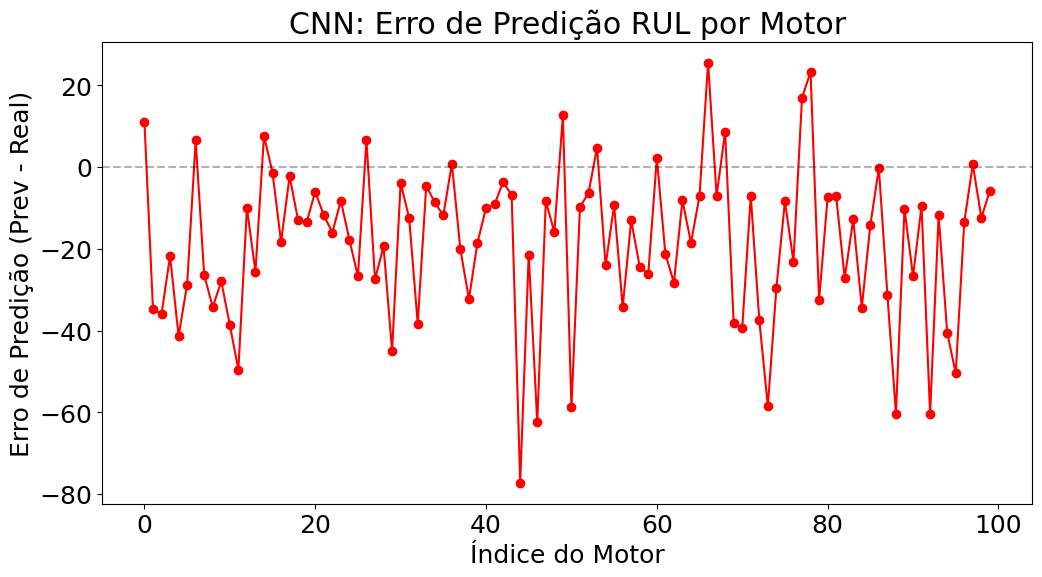
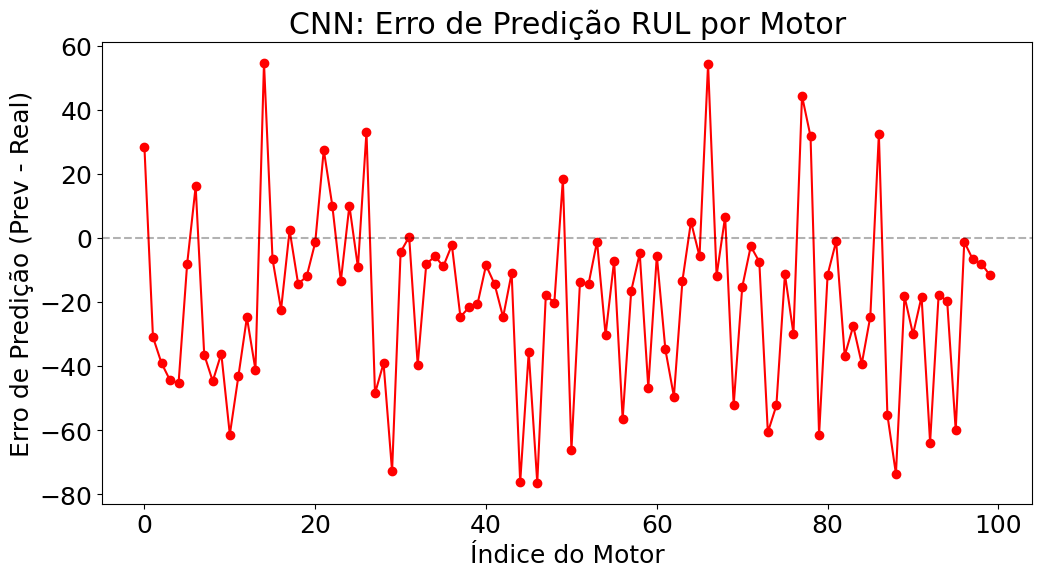
criado CNNV2, com diversas mudancas de fine tuning e bug arrumado

diff --git a/src/CNN/CNNModel.py b/src/CNN/CNNModel.py
@@ -1,104 +1,176 @@
+import os
+import numpy as np
 import tensorflow as tf
 from keras import layers, models, regularizers, callbacks
-import numpy as np
-import os
 
-def load_cmaps_data(file_path, window_size=40, rul_clip=125):
+
+def _get_scaler_paths():
+    base_dir = os.path.join(os.path.dirname(__file__), "../../data")
+    return os.path.join(base_dir, "mu.npy"), os.path.join(base_dir, "sigma.npy")
+
+
+def load_cmaps_data(file_path, window_size=120, rul_clip=200, min_sequence_length=40):
+    """
+    Load CMAPSS data with optional filtering of very short sequences.
+    
+    Args:
+        file_path: Path to data file
+        window_size: Sequence window length
+        rul_clip: Maximum RUL value (clipping applied)
+        min_sequence_length: Skip sequences shorter than this (avoids excessive padding)
+    """
     data = np.loadtxt(file_path)
 
-    # Columns
     unit_ids = data[:, 0].astype(int)
     cycles = data[:, 1].astype(int)
     settings = data[:, 2:5]
     sensors = data[:, 5:]
 
-    # ---- Remove useless sensors (standard CMAPSS practice)
-    useful_idx = [1,2,3,6,7,8,10,11,12,13,14,16,19,20]  # 0-based from sensors
+    useful_idx = [1, 2, 3, 6, 7, 8, 10, 11, 12, 13, 14, 16, 19, 20]
     sensors = sensors[:, useful_idx]
-
-    # Combine settings + sensors
     features = np.hstack([settings, sensors])
 
-    # ---- Normalize per sensor (using whole dataset here; ideally only train)
-    mu = features.mean(axis=0)
-    sigma = features.std(axis=0) + 1e-8
+    mu_path, sigma_path = _get_scaler_paths()
+    if not os.path.exists(mu_path) or not os.path.exists(sigma_path):
+        raise FileNotFoundError(
+            f"Scaler files not found. Expected mu.npy and sigma.npy in {os.path.dirname(mu_path)}"
+        )
+
+    mu = np.load(mu_path)
+    sigma = np.load(sigma_path)
     features = (features - mu) / sigma
-    np.save(os.path.join(os.path.dirname(__file__), "../../data/mu.npy"), mu)
-    np.save(os.path.join(os.path.dirname(__file__), "../../data/sigma.npy"), sigma)
 
-    # ---- Build sequences
     X, Y, unit_ids_windowed = [], [], []
-
     unique_units = np.unique(unit_ids)
 
     for unit in unique_units:
         idx = unit_ids == unit
-
         unit_feat = features[idx]
         unit_cycles = cycles[idx]
 
         max_cycle = unit_cycles.max()
         rul = max_cycle - unit_cycles
-
-        # clip RUL
         rul = np.clip(rul, 0, rul_clip)
+        rul = np.log(rul + 1)
 
-        # sliding window
+        if __name__ == "__main__":
+            if len(unit_feat) < min_sequence_length:
+                continue  # Skip this engine entirely
+        
         if len(unit_feat) < window_size:
-            # pad with first value (common practice for short sequences)
             pad = np.repeat(unit_feat[0:1], window_size - len(unit_feat), axis=0)
             window = np.vstack([pad, unit_feat])
-
             X.append(window)
             Y.append(rul[-1])
             unit_ids_windowed.append(unit)
         else:
             for i in range(len(unit_feat) - window_size + 1):
-                X.append(unit_feat[i:i+window_size])
-                Y.append(rul[i+window_size-1])
+                X.append(unit_feat[i:i + window_size])
+                Y.append(rul[i + window_size - 1])
                 unit_ids_windowed.append(unit)
 
-    X = np.array(X)
-    Y = np.array(Y)
-    unit_ids_windowed = np.array(unit_ids_windowed)
+    return np.array(X), np.array(Y), np.array(unit_ids_windowed)
 
-    return X, Y, unit_ids_windowed
 
-# Carrega e prepara dados
-X_train, Y_train, _ = load_cmaps_data(os.path.join(os.path.dirname(__file__), '../../data/train_FD001.txt'))
-
-if __name__ == "__main__":
-
-    # Modelo CNN com window_size=40
-    l2_strength = 1e-3
-    model = models.Sequential([
-        layers.Input(shape=(X_train.shape[1], X_train.shape[2])),  # (40, 17)
+def build_cnn_model(input_shape, l2_strength=1e-3):
+    return models.Sequential([
+        layers.Input(shape=input_shape),
         layers.Conv1D(64, 3, padding='same', kernel_regularizer=regularizers.l2(l2_strength)),
         layers.BatchNormalization(),
         layers.ReLU(),
         layers.MaxPool1D(2),
-
         layers.Conv1D(128, 3, padding='same', kernel_regularizer=regularizers.l2(l2_strength)),
         layers.BatchNormalization(),
         layers.ReLU(),
         layers.MaxPool1D(2),
-
         layers.Flatten(),
         layers.Dense(64, activation='relu', kernel_regularizer=regularizers.l2(l2_strength)),
-        layers.Dense(1)
+        layers.Dense(1)  # No activation - unbounded predictions in log-space
     ])
 
-    model.compile(optimizer='adam', loss='mse', metrics=['mae'])
 
-    # Treina o modelo
-    history = model.fit(
-        X_train, Y_train,
-        epochs=50,
-        batch_size=64,
-        validation_split=0.2,
+def compute_sample_weights(Y_train, high_rul_scale=1.0):
+    """
+    Compute sample weights based on RUL values.
+    Higher RULs get higher weights by the formula: 1 + high_rul_scale * (RUL / max(RUL))
+    
+    Args:
+        Y_train: Array of RUL values (log-transformed)
+        high_rul_scale: Scaling factor for high RUL weight emphasis (default=1.0)
+    
+    Returns:
+        sample_weights: Array of weights for each sample
+    """
+    max_rul = np.max(Y_train)
+    normalized_rul = Y_train / max_rul
+    sample_weights = 1.0 + high_rul_scale * normalized_rul
+    return sample_weights
+
+def train_cnn_model(model, X_train, Y_train, model_path, epochs=50, batch_size=64, 
+                    validation_split=0.2, high_rul_scale=1.0):
+    """
+    Train CNN model with optional sample weighting for high RUL values.
+    
+    Args:
+        model: Keras model to train
+        X_train: Training features
+        Y_train: Training targets (RUL values, log-transformed)
+        model_path: Path to save the trained model
+        epochs: Number of training epochs
+        batch_size: Training batch size
+        validation_split: Fraction of data for validation
+        high_rul_scale: Scale factor for penalizing high RUL predictions (0 = uniform weights)
+        use_quantile_loss: If True, use QuantileLoss (more robust to outliers) instead of Huber
+    """
+    
+    model.compile(optimizer='adam', loss='huber', metrics=['mae'])
+    
+    sample_weights = compute_sample_weights(Y_train, high_rul_scale=high_rul_scale) if high_rul_scale > 0 else None
+    
+    model.fit(
+        X_train,
+        Y_train,
+        epochs=epochs,
+        batch_size=batch_size,
+        validation_split=validation_split,
+        sample_weight=sample_weights,
         callbacks=[callbacks.EarlyStopping(patience=5, restore_best_weights=True)]
     )
+    model.save(model_path)
+    return model
 
-    # Salva o modelo
-    model.save(os.path.join(os.path.dirname(__file__), '../../models/CNN_model.keras'))
-    print("Model and scaler saved successfully!")
+
+def inverse_rul_transform(y_pred, y_pred_clip_max=6.0):
+    """
+    Inverse log-transform RUL predictions with clipping.
+    
+    Args:
+        y_pred: Log-transformed RUL predictions
+        y_pred_clip_max: Maximum log-space value (prevents exponential explosion)
+                         exp(6.0) - 1 = 403.4, which is ~3x the max training RUL
+    
+    Returns:
+        Clipped RUL predictions in original space
+    """
+
+    y_pred_clipped = np.clip(y_pred, -np.inf, y_pred_clip_max)
+    return np.clip(np.exp(y_pred_clipped) - 1, 0.0, None)
+
+
+if __name__ == "__main__":
+    train_path = os.path.join(os.path.dirname(__file__), '../../data/train_FD001.txt')
+    model_path = os.path.join(os.path.dirname(__file__), '../../models/CNN_modelV2.keras')
+    window_size = 80
+    min_sequence_length = 40 
+    high_rul_scale = 3.5  
+    y_pred_clip_max = 6.0  
+
+    X_train, Y_train, _ = load_cmaps_data(train_path, window_size=window_size, 
+                                          min_sequence_length=min_sequence_length)
+    model = build_cnn_model(input_shape=(X_train.shape[1], X_train.shape[2]))
+    train_cnn_model(model, X_train, Y_train, model_path, high_rul_scale=high_rul_scale)
+    print(f"Model saved to {model_path}")
+    print(f"Training completed with:")
+    print(f"  - min_sequence_length={min_sequence_length}")
+    print(f"  - high_rul_scale={high_rul_scale}")
+    print(f"  - y_pred_clip_max={y_pred_clip_max} (for inverse transform)")

diff --git a/src/CNN/CNNTest.py b/src/CNN/CNNTest.py
@@ -1,42 +1,54 @@
-import CNNModel
-import numpy as np
-import tensorflow as tf
-from keras import models
 import os
-    
-X_test, Y_test, unit_ids_test = CNNModel.load_cmaps_data(os.path.join(os.path.dirname(__file__), '../../data/test_FD001.txt'))
+import numpy as np
+from keras import models
+from CNNModel import load_cmaps_data, inverse_rul_transform
 
-model = models.load_model(os.path.join(os.path.dirname(__file__), '../../models/CNN_model.keras'))
 
-# Make predictions on all test windows
-Y_pred = model.predict(X_test, verbose=0).flatten()
+def predict_engine_rul(model_path, data_path, window_size=80, y_pred_clip_max=6.0):
+    X_test, _, unit_ids_test = load_cmaps_data(data_path, window_size=window_size)
+    model = models.load_model(model_path)
+    y_pred = model.predict(X_test, verbose=0).flatten()
+    y_pred = inverse_rul_transform(y_pred, y_pred_clip_max=y_pred_clip_max)
 
-# Get RUL prediction per engine (last window of each engine)
-engine_rul_pred = {}
+    engine_rul_pred = {}
+    for unit in np.unique(unit_ids_test):
+        idx = np.where(unit_ids_test == unit)[0]
+        engine_rul_pred[unit] = float(y_pred[idx[-1]])
 
-for unit in np.unique(unit_ids_test):
-    idx = np.where(unit_ids_test == unit)[0]
-    last_idx = idx[-1]  # last window of that engine
-    engine_rul_pred[unit] = Y_pred[last_idx]
+    return engine_rul_pred
 
-# Load true RUL values for evaluation
-true_rul = np.loadtxt(os.path.join(os.path.dirname(__file__), '../../data/RUL_FD001.txt')).flatten()
 
-# Get predictions in the same order as true RUL
-pred_list = []
-for i, unit in enumerate(sorted(engine_rul_pred.keys())):
-    pred_list.append(engine_rul_pred[unit])
+def evaluate_model(model_path, data_path, true_rul_path, window_size=80, y_pred_clip_max=6.0):
+    engine_rul_pred = predict_engine_rul(model_path, data_path, window_size=window_size, 
+                                         y_pred_clip_max=y_pred_clip_max)
+    true_rul = np.loadtxt(true_rul_path).flatten()
+    pred_list = np.array([engine_rul_pred[unit] for unit in sorted(engine_rul_pred.keys())])
 
-pred_list = np.array(pred_list)
+    mse = np.mean((pred_list - true_rul) ** 2)
+    mae = np.mean(np.abs(pred_list - true_rul))
+    ss_res = np.sum((pred_list - true_rul) ** 2)
+    ss_tot = np.sum((true_rul - np.mean(true_rul)) ** 2)
+    r_squared = 1 - (ss_res / ss_tot)
 
-# Calculate metrics
-mse = np.mean((pred_list - true_rul) ** 2)
-mae = np.mean(np.abs(pred_list - true_rul))
-ss_res = np.sum((pred_list - true_rul) ** 2)
-ss_tot = np.sum((true_rul - np.mean(true_rul)) ** 2)
-r_squared = 1 - (ss_res / ss_tot)
+    metrics = {
+        'mse': float(mse),
+        'mae': float(mae),
+        'r_squared': float(r_squared),
+        'predictions': pred_list,
+        'true_rul': true_rul,
+        'engine_rul_pred': engine_rul_pred,
+    }
+    return metrics
 
-print(f"\n=== CNN Model Evaluation ===")
-print(f"MSE: {mse:.4f}")
-print(f"MAE: {mae:.4f}")
-print(f"R-squared: {r_squared:.4f}")
+
+if __name__ == "__main__":
+    base_dir = os.path.dirname(__file__)
+    model_path = os.path.join(base_dir, '../../models/CNN_modelV2.keras')
+    data_path = os.path.join(base_dir, '../../data/test_FD001.txt')
+    true_rul_path = os.path.join(base_dir, '../../data/RUL_FD001.txt')
+
+    metrics = evaluate_model(model_path, data_path, true_rul_path)
+    print("\n=== CNN Model Evaluation ===")
+    print(f"MSE: {metrics['mse']:.4f}")
+    print(f"MAE: {metrics['mae']:.4f}")
+    print(f"R-squared: {metrics['r_squared']:.4f}")

diff --git a/src/CNN/CNNDFTestComparison.py b/src/CNN/CNNDFTestComparison.py
@@ -1,43 +1,51 @@
-from CNNTest import engine_rul_pred
-import pandas as pd
 import os
-import matplotlib.pyplot as plt
 import numpy as np
+import matplotlib.pyplot as plt
+from CNNTest import evaluate_model
 
-true_rul = np.loadtxt(os.path.join(os.path.dirname(__file__), '../../data/RUL_FD001.txt'))
 
-# Get predictions in the same order as true RUL
-engine_rul_values = np.array([engine_rul_pred[unit] for unit in sorted(engine_rul_pred.keys())])
+def plot_cnn_predictions(metrics, output_dir):
+    os.makedirs(output_dir, exist_ok=True)
+    true_rul = metrics['true_rul']
+    engine_rul_pred = metrics['engine_rul_pred']
+    engine_rul_values = np.array([engine_rul_pred[unit] for unit in sorted(engine_rul_pred.keys())])
+    x = np.arange(len(engine_rul_values))
 
-# Create an x-axis for the indices
-x = np.arange(len(engine_rul_values))
+    plt.rcParams.update({'font.size': 18})
+    fig, ax = plt.subplots(figsize=(12, 6))
+    ax.plot(x, engine_rul_values, linestyle='None', marker='o', label='Previsto')
+    ax.plot(x, true_rul, linestyle='None', marker='x', label='Real')
+    ax.vlines(x, engine_rul_values, true_rul, colors='gray', linestyles='dashed')
+    ax.legend()
+    ax.set_xlabel('Índice do Motor')
+    ax.set_ylabel('RUL')
+    ax.set_title('CNN: RUL Previsto vs Real')
 
-plt.rcParams.update({'font.size': 18})
-# Figure 1: Comparison plot with vertical distance lines
-fig, ax = plt.subplots(figsize=(12, 6))
-ax.plot(x, engine_rul_values, linestyle='None', marker='o', label='Previsto')
-ax.plot(x, true_rul, linestyle='None', marker='x', label='Real')
+    comparison_path = os.path.join(output_dir, 'CNNV2_comparison_plot.png')
+    plt.savefig(comparison_path, dpi=100, bbox_inches='tight')
+    print(f"Gráfico salvo como {comparison_path}")
+    plt.close()
 
-# vertical distances
-ax.vlines(x, engine_rul_values, true_rul, colors='gray', linestyles='dashed')
+    error = engine_rul_values - true_rul
+    fig, ax = plt.subplots(figsize=(12, 6))
+    ax.plot(x, error, marker='o', color='red', linestyle='-', linewidth=1.5)
+    ax.axhline(y=0, color='k', linestyle='--', alpha=0.3)
+    ax.set_xlabel('Índice do Motor')
+    ax.set_ylabel('Erro de Predição (Prev - Real)')
+    ax.set_title('CNN: Erro de Predição RUL por Motor')
 
-ax.legend()
-ax.set_xlabel('Índice do Motor')
-ax.set_ylabel('RUL')
-ax.set_title('CNN: RUL Previsto vs Real')
-plt.savefig(os.path.join(os.path.dirname(__file__), "../../plots/CNN_comparison_plot.png"), dpi=100, bbox_inches='tight')
-print("Gráfico salvo como CNN_comparison_plot.png")
-plt.close()
+    error_path = os.path.join(output_dir, 'CNNV2_error.png')
+    plt.savefig(error_path, dpi=100, bbox_inches='tight')
+    print(f"Gráfico salvo como {error_path}")
+    plt.close()
 
-# Figure 2: Error plot
-error = engine_rul_values - true_rul
 
-fig, ax = plt.subplots(figsize=(12, 6))
-ax.plot(x, error, marker='o', color='red', linestyle='-', linewidth=1.5)
-ax.axhline(y=0, color='k', linestyle='--', alpha=0.3)
-ax.set_xlabel("Índice do Motor")
-ax.set_ylabel("Erro de Predição (Prev - Real)")
-ax.set_title("CNN: Erro de Predição RUL por Motor")
-plt.savefig(os.path.join(os.path.dirname(__file__), "../../plots/CNN_error.png"), dpi=100, bbox_inches='tight')
-print("Gráfico salvo como CNN_error.png")
-plt.close()
+if __name__ == '__main__':
+    base_dir = os.path.dirname(__file__)
+    model_path = os.path.join(base_dir, '../../models/CNN_modelV2.keras')
+    data_path = os.path.join(base_dir, '../../data/test_FD001.txt')
+    true_rul_path = os.path.join(base_dir, '../../data/RUL_FD001.txt')
+    output_dir = os.path.join(base_dir, '../../plots')
+
+    metrics = evaluate_model(model_path, data_path, true_rul_path)
+    plot_cnn_predictions(metrics, output_dir)